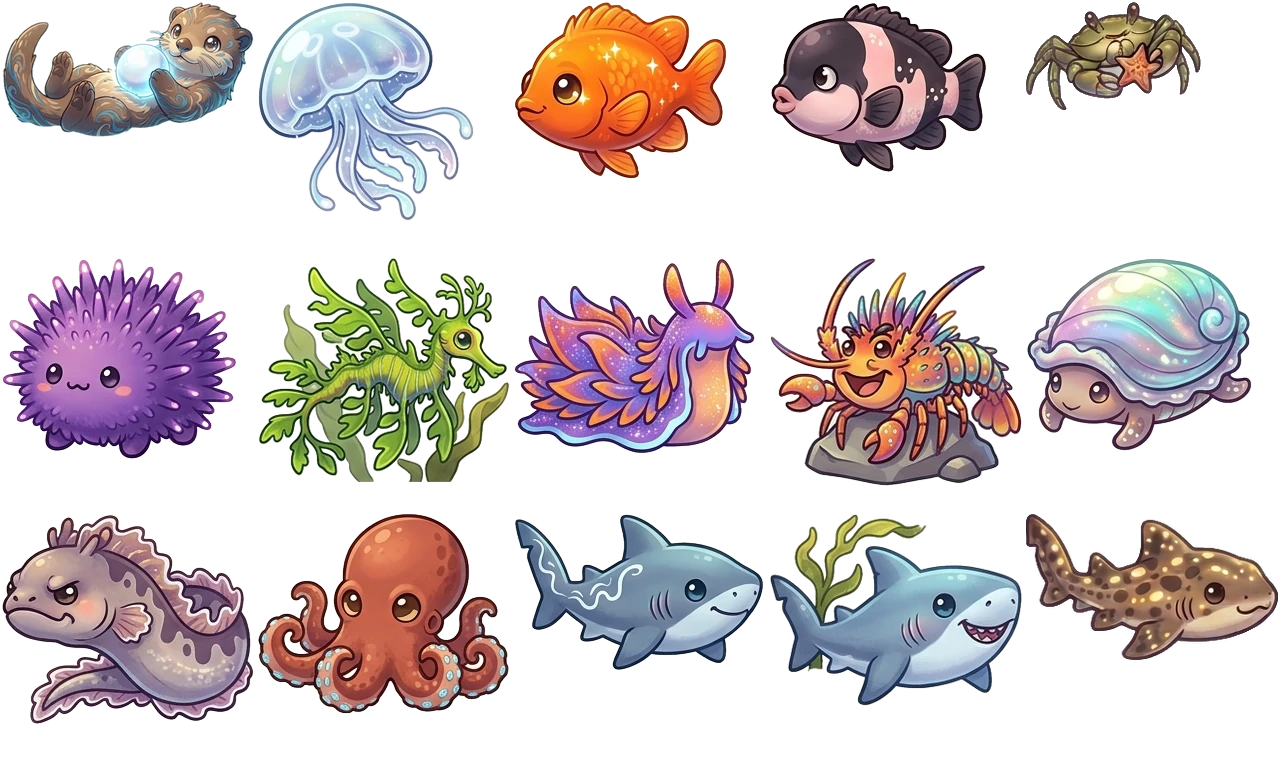
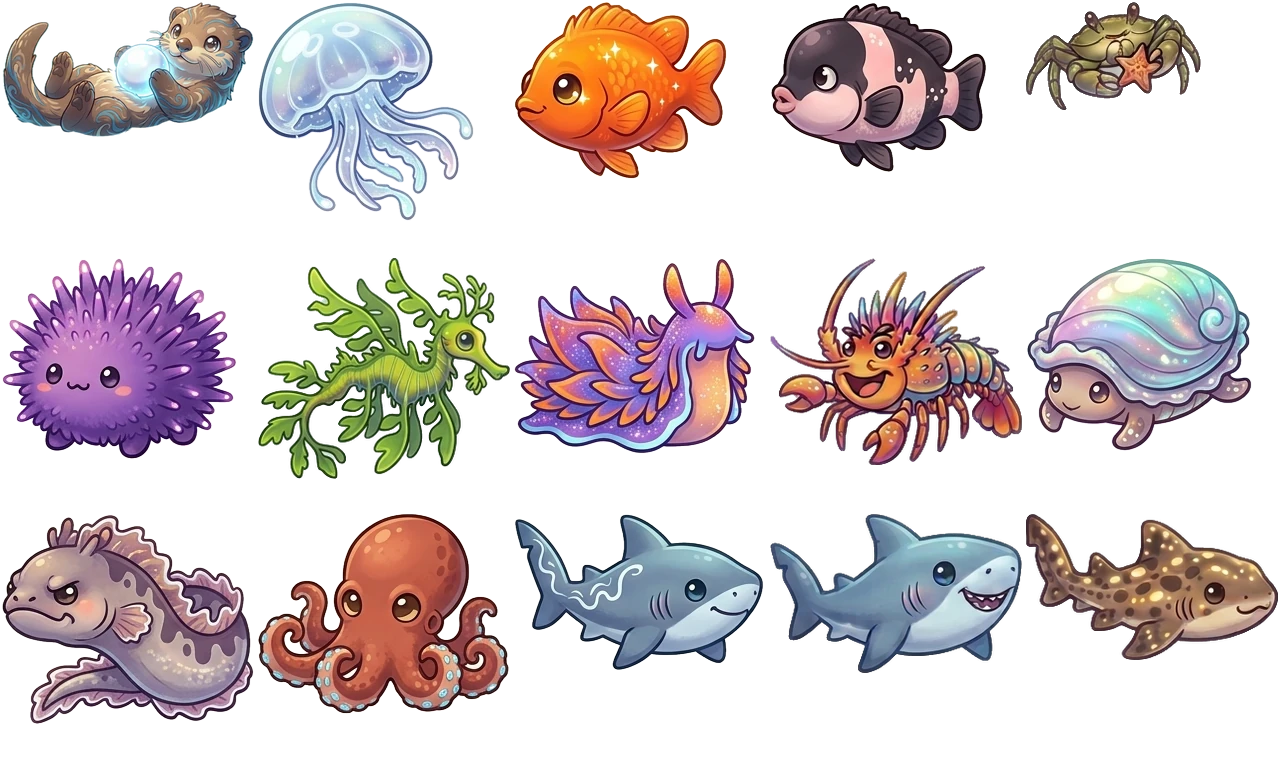
Tidesong: strip leftover ground and scenery from 37 creatures

Changed region(s): [[0.5938, 0.3438, 0.8125, 0.9375], [0.1875, 0.3438, 0.4062, 0.625]]

diff --git a/arcade/js/tidesong/creatureAtlas.js b/arcade/js/tidesong/creatureAtlas.js
@@ -3,8 +3,8 @@
 // creatureremakes/ by creature-cutter/remakes): each creature's rectangle
 // [x, y, w, h] in img/tidesong/creatures/<region>.webp, in the same order as
 // the region's 15 creatures in creatures.js. Do not edit by hand.
-export const creatureAtlas = {"prismreef":[[2,2,252,205],[258,2,252,180],[514,2,243,209],[770,2,200,129],[1026,2,237,195],[2,258,252,207],[258,258,252,227],[514,258,252,220],[770,258,252,183],[1026,258,230,210],[2,514,252,156],[258,514,234,222],[514,514,250,196],[770,514,252,194],[1026,514,252,161]],"verdant":[[2,2,252,135],[258,2,216,219],[514,2,213,177],[770,2,217,170],[1026,2,175,108],[2,258,235,201],[258,258,252,224],[514,258,241,196],[770,258,252,228],[1026,258,226,193],[2,514,252,210],[258,514,251,200],[514,514,250,156],[770,514,252,192],[1026,514,252,146]],"fluvius":[[2,2,243,218],[258,2,252,189],[514,2,189,252],[770,2,195,162],[1026,2,240,147],[2,258,247,191],[258,258,227,223],[514,258,252,182],[770,258,222,179],[1026,258,252,171],[2,514,241,184],[258,514,244,213],[514,514,252,182],[770,514,214,212],[1026,514,252,145]],"pelagia":[[2,2,252,168],[258,2,252,170],[514,2,211,252],[770,2,252,235],[1026,2,252,111],[2,258,224,252],[258,258,252,137],[514,258,252,151],[770,258,252,132],[1026,258,252,172],[2,514,252,169],[258,514,252,202],[514,514,252,186],[770,514,252,167],[1026,514,252,158]],"brinewallow":[[2,2,252,215],[258,2,180,170],[514,2,252,201],[770,2,252,189],[1026,2,252,198],[2,258,252,191],[258,258,193,225],[514,258,210,209],[770,258,252,200],[1026,258,216,183],[2,514,252,190],[258,514,179,157],[514,514,252,155],[770,514,207,185],[1026,514,252,195]],"frostveil":[[2,2,227,182],[258,2,248,216],[514,2,242,188],[770,2,236,153],[1026,2,247,226],[2,258,248,221],[258,258,252,210],[514,258,221,182],[770,258,209,161],[1026,258,172,179],[2,514,181,187],[258,514,222,194],[514,514,221,147],[770,514,212,219],[1026,514,252,163]],"gloomveil":[[2,2,233,188],[258,2,227,139],[514,2,198,191],[770,2,171,135],[1026,2,181,177],[2,258,223,184],[258,258,224,183],[514,258,227,137],[770,258,167,130],[1026,258,221,179],[2,514,203,180],[258,514,228,203],[514,514,235,163],[770,514,206,197],[1026,514,216,198]],"cragspire":[[2,2,240,188],[258,2,220,158],[514,2,238,192],[770,2,224,217],[1026,2,225,187],[2,258,210,213],[258,258,246,199],[514,258,236,213],[770,258,252,175],[1026,258,252,201],[2,514,206,232],[258,514,252,187],[514,514,235,214],[770,514,246,216],[1026,514,252,182]],"abyssal":[[2,2,184,185],[258,2,231,190],[514,2,209,168],[770,2,167,157],[1026,2,188,174],[2,258,178,179],[258,258,223,188],[514,258,170,134],[770,258,190,187],[1026,258,212,162],[2,514,239,171],[258,514,214,190],[514,514,186,159],[770,514,228,195],[1026,514,155,172]],"fangshore":[[2,2,252,184],[258,2,252,167],[514,2,252,249],[770,2,252,235],[1026,2,252,200],[2,258,252,136],[258,258,252,212],[514,258,252,143],[770,258,252,250],[1026,258,252,156],[2,514,252,237],[258,514,252,187],[514,514,246,252],[770,514,252,155],[1026,514,252,191]]};
+export const creatureAtlas = {"prismreef":[[2,2,252,205],[258,2,252,180],[514,2,243,209],[770,2,200,129],[1026,2,237,195],[2,258,240,203],[258,258,252,227],[514,258,252,220],[770,258,252,183],[1026,258,230,210],[2,514,252,156],[258,514,234,222],[514,514,250,196],[770,514,252,194],[1026,514,252,161]],"verdant":[[2,2,252,135],[258,2,216,219],[514,2,213,177],[770,2,217,170],[1026,2,175,108],[2,258,235,201],[258,258,252,221],[514,258,241,196],[770,258,252,207],[1026,258,226,193],[2,514,252,210],[258,514,251,200],[514,514,250,156],[770,514,252,159],[1026,514,252,146]],"fluvius":[[2,2,194,166],[258,2,252,194],[514,2,189,252],[770,2,195,162],[1026,2,240,147],[2,258,247,191],[258,258,227,223],[514,258,252,180],[770,258,222,179],[1026,258,252,171],[2,514,242,177],[258,514,244,213],[514,514,223,182],[770,514,214,212],[1026,514,252,145]],"pelagia":[[2,2,252,168],[258,2,252,170],[514,2,211,252],[770,2,252,235],[1026,2,252,111],[2,258,224,252],[258,258,252,137],[514,258,252,151],[770,258,252,132],[1026,258,252,172],[2,514,252,169],[258,514,252,202],[514,514,252,186],[770,514,252,167],[1026,514,252,170]],"brinewallow":[[2,2,213,197],[258,2,180,170],[514,2,252,190],[770,2,233,212],[1026,2,203,127],[2,258,218,212],[258,258,193,225],[514,258,118,204],[770,258,252,191],[1026,258,216,183],[2,514,202,227],[258,514,179,157],[514,514,252,155],[770,514,207,185],[1026,514,241,161]],"frostveil":[[2,2,227,182],[258,2,163,185],[514,2,209,144],[770,2,236,153],[1026,2,247,226],[2,258,170,182],[258,258,241,165],[514,258,221,182],[770,258,209,161],[1026,258,172,179],[2,514,181,187],[258,514,172,176],[514,514,221,147],[770,514,185,217],[1026,514,241,168]],"gloomveil":[[2,2,233,188],[258,2,227,139],[514,2,198,191],[770,2,171,135],[1026,2,181,177],[2,258,223,184],[258,258,224,183],[514,258,227,137],[770,258,167,130],[1026,258,215,156],[2,514,203,180],[258,514,228,203],[514,514,235,163],[770,514,206,197],[1026,514,216,198]],"cragspire":[[2,2,240,188],[258,2,220,158],[514,2,238,192],[770,2,224,217],[1026,2,225,187],[2,258,141,133],[258,258,237,148],[514,258,236,213],[770,258,217,144],[1026,258,252,184],[2,514,197,215],[258,514,252,205],[514,514,235,214],[770,514,220,215],[1026,514,228,187]],"abyssal":[[2,2,184,185],[258,2,231,190],[514,2,209,168],[770,2,167,157],[1026,2,188,174],[2,258,178,179],[258,258,223,188],[514,258,170,134],[770,258,190,187],[1026,258,212,162],[2,514,239,171],[258,514,214,190],[514,514,186,159],[770,514,228,195],[1026,514,155,172]],"fangshore":[[2,2,182,200],[258,2,252,167],[514,2,252,249],[770,2,252,235],[1026,2,252,200],[2,258,252,136],[258,258,252,212],[514,258,252,143],[770,258,252,250],[1026,258,252,156],[2,514,252,237],[258,514,252,187],[514,514,246,252],[770,514,252,155],[1026,514,252,217]]};
 
 // A hash of each region picture, added to its address so browsers fetch
 // the new picture whenever it changes.
-export const creatureArtVersion = {"prismreef":"9c3f372a69","verdant":"5c308fd7ee","fluvius":"c0ac2f5ac0","pelagia":"4ac6c63f0d","brinewallow":"854d8ff65e","frostveil":"a41f67477a","gloomveil":"f925052517","cragspire":"6fb841da5f","abyssal":"733a6e8694","fangshore":"f7864bea38"};
+export const creatureArtVersion = {"prismreef":"d20cc8d508","verdant":"070a72cadb","fluvius":"4781425dd9","pelagia":"941ec72ac7","brinewallow":"b69db1bfab","frostveil":"8fc600987e","gloomveil":"12e54daefc","cragspire":"581d9bd57d","abyssal":"733a6e8694","fangshore":"5ef6469e44"};

diff --git a/arcade/js/tidesong/creatureFacing.js b/arcade/js/tidesong/creatureFacing.js
@@ -6,7 +6,7 @@ export const creatureFacing = {
   abyssal: "LLLRLFRRLRFFLFF",
   brinewallow: "FLLRRFFRFFRRRLR",
   cragspire: "FFFFRLRRFRRRLLR",
-  fangshore: "LRLLRLLLLLRLRRL",
+  fangshore: "RRLLRLLLLLRLRRL",
   fluvius: "RRFRLFRRRRRLLLL",
   frostveil: "FFLLRFRFLFFFLRL",
   gloomveil: "RLRRRFRLRFLLLFF",
